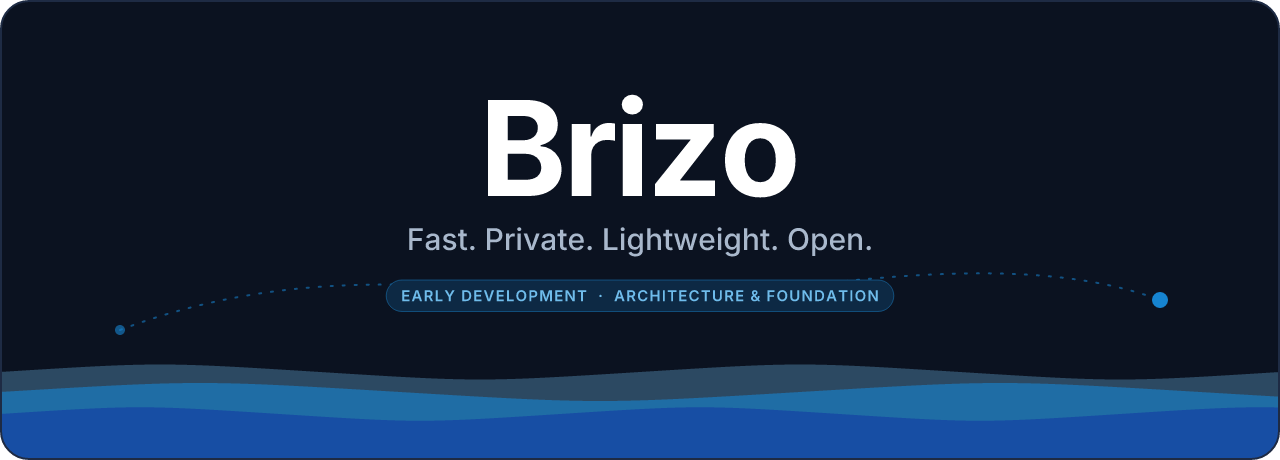
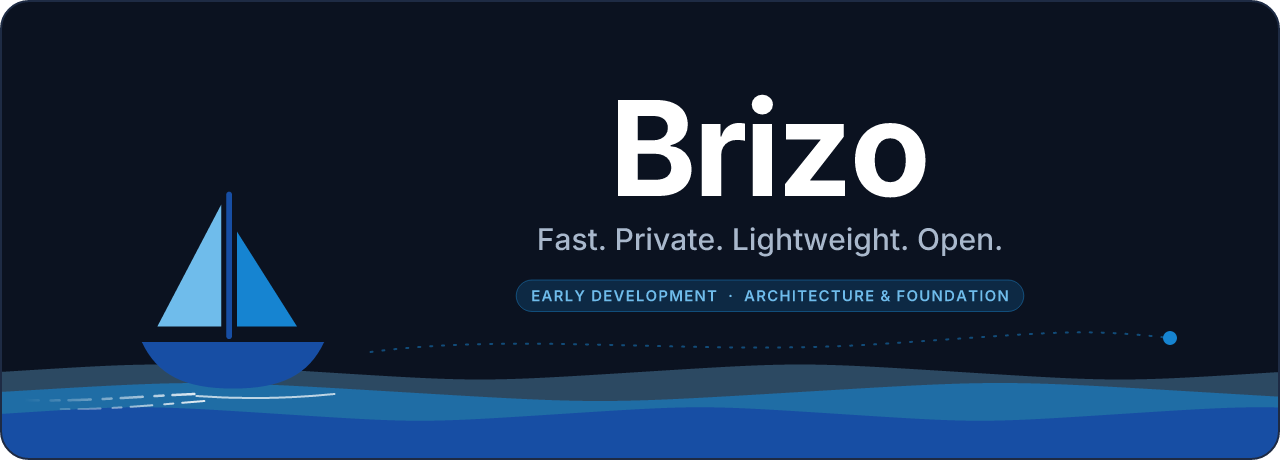
Publish animated sailing hero with a temporary, distinct sailboat motif
The owner-approved V2 hero layout and animation (boat left, type moved right,
surge/bob/rock, parallax waves, wake, wind) now render publicly. A bounded
provenance check did not establish rights to the provisional logo, so the
boat is an independently constructed generic sloop (visible mast, two
straight-edged triangular sails, crescent hull): README artwork only, not a
logo. The exact-logo V2 stays private. Records the provenance findings
(no metadata; reported BRIZO Class 9 registration by Delta Faucet Co.)
in BRAND_PROVENANCE, D-013 and D-014.

Claude-Session: https://claude.ai/code/session_01EcwpM4mqBSRsgukaGKjCz5

diff --git a/docs/BRAND_PROVENANCE.md b/docs/BRAND_PROVENANCE.md
@@ -10,6 +10,7 @@ Last reviewed: 2026-11-24 (Task 001). **Nothing in this document is legal advice
 | Logo reference image (owner-supplied, "Balanced" variation) | ⚠ **Provenance and copyright status unknown** |
 | Vector logo candidate (hand-built SVG following the reference) | ⚠ **Provisional.** Inherits the reference's unresolved status |
 | Animated sailing-logo hero (`branding-private/hero-v2/`) | ⚠ **Private.** Contains the provisional mark; shared with the owner only |
+| Temporary README sailboat motif (`MOTIF_BOAT` in `build-readme-assets.mjs`) | ✅ Original, generic sloop (mast, two straight triangular sails, crescent hull); README artwork only, **not a logo** |
 | README artwork (`assets/readme/`) | ✅ Original, abstract (waves, wind, typography), generated by `scripts/brand/build-readme-assets.mjs` |
 | Font: Inter | ✅ SIL Open Font License 1.1 (`@fontsource/inter`) |
 | Tooling: `@resvg/resvg-js` (MPL-2.0), `opentype.js` (MIT) | ✅ Build-time only, not redistributed in assets |
@@ -56,3 +57,24 @@ someone else's protected work, the candidate may be too.
 
 Once resolved, record the outcome in [DECISIONS.md](DECISIONS.md), then (with
 owner approval) logo assets may be committed and used in the README.
+
+## Bounded provenance investigation (Task 003, 2026-11-25)
+
+Performed once, by design. Findings:
+
+| Check | Result |
+| --- | --- |
+| Reference file metadata (EXIF, XMP, C2PA/JUMBF) | **None present.** The WebP was re-encoded (VP8X + ICC only), which strips metadata |
+| ICC profile | `sRGB`, copyright "Google Inc. 2016" (Skia's compact profile). **Weak signal only:** the file passed through a Google/Skia encoder (e.g. a Google AI image tool, Chrome or Android). It does not establish authorship or licence |
+| Owner-supplied rights document | None on record |
+| Reverse-image / visually-similar mark search | **Not possible** from the research sandbox (no image-search access). A three-shape blue sailboat is a common motif; failure to find a match would not prove originality anyway |
+| "BRIZO" word mark | Third-party trademark aggregators report a **live BRIZO registration by Delta Faucet Company covering Classes 3, 9 and 11** (serial 98131038, reg. 7779957), in addition to its long-standing Class 11 faucet mark, and BRIZO filings by others including "Brizo Data, Inc.". **Not yet confirmed in USPTO TSDR** (USPTO sites unreachable from the sandbox). Class 9 covers software, so this is a **material naming risk** that needs owner and legal review before any public launch |
+
+Sources: [Markinton 98131038](https://markinton.com/trademark/brizo-98131038), [trademarkregistration.app 98131038](https://trademarkregistration.app/Trademark/Details/98131038), [Justia: Brizo Data, Inc.](https://trademarks.justia.com/owners/brizo-data-inc-4150691), [TrademarkElite 78794479](https://www.trademarkelite.com/trademark/trademark-detail/78794479/BRIZO).
+
+**Conclusion:** usage rights for the provisional logo are **not established**.
+The approved animated V2 hero (exact logo) stays private. The public README uses
+a distinct temporary motif. Owner actions: (1) record where the reference came
+from and under what terms, or commission an original mark in the same direction
+with documented authorship; (2) verify serial 98131038 in USPTO TSDR and get
+legal advice on the name before any public release.

diff --git a/README.md b/README.md
@@ -4,7 +4,7 @@
   <source media="(prefers-reduced-motion: reduce) and (prefers-color-scheme: dark)" srcset="assets/readme/static/hero-dark.png">
   <source media="(prefers-reduced-motion: reduce)" srcset="assets/readme/static/hero-light.png">
   <source media="(prefers-color-scheme: dark)" srcset="assets/readme/hero-dark.svg">
-  <img alt="Brizo — Fast. Private. Lightweight. Open. Early development: architecture and foundation." src="assets/readme/hero-light.svg" width="100%">
+  <img alt="Brizo — Fast. Private. Lightweight. Open. An illustrative sailboat sails across animated waves. Early development: architecture and foundation." src="assets/readme/hero-light.svg" width="100%">
 </picture>
 
 <sub><a href="https://github.com/settings/appearance" title="Opens GitHub's appearance settings (sign-in required). README content cannot change your theme."><img src="assets/readme/icon-sun.svg" width="12" height="12" alt="Light"><img src="assets/readme/icon-moon.svg" width="12" height="12" alt="Dark"></a> Artwork adapts to light and dark mode automatically · <a href="https://github.com/settings/appearance">GitHub appearance settings</a></sub>
@@ -223,8 +223,9 @@ no licence is granted for the contents of this repository. See
 
 “Brizo” is a working name and has **not** received trademark clearance. The
 logo shown to the owner for review is a provisional candidate whose provenance
-is unresolved, so it is intentionally **not** published here. README artwork
-uses original, abstract wave and wind motifs. Details:
+is unresolved, so it is intentionally **not** published here. The sailboat in
+the animated banner is a **temporary illustration, not the Brizo logo**; all
+README artwork is original and source-independent. Details:
 [docs/BRAND_PROVENANCE.md](docs/BRAND_PROVENANCE.md).
 
 <div align="center">

diff --git a/docs/DECISIONS.md b/docs/DECISIONS.md
@@ -69,3 +69,16 @@ READMEs cannot run JavaScript or change the viewer's GitHub theme. The hero has
 a compact sun/moon note with an accurately labelled link to
 `https://github.com/settings/appearance`. A real Sun/Moon toggle is specified
 for the future website (`docs/website/`), but is not deployed.
+
+## D-013 · 2026-11-25 · Accepted: Public hero uses a temporary, distinct sailboat motif
+The owner approved hero V2's composition and animation. A bounded provenance check
+(BRAND_PROVENANCE) did not establish usage rights for the provisional logo. The
+public README hero therefore keeps V2's layout, motion, waves, wake, wordmark
+position and colours, but draws an independently constructed generic sloop
+(`MOTIF_BOAT`). It is README artwork only, not an application logo. The
+exact-logo V2 stays private (`branding-private/hero-v2/`). Switching later means
+passing the private boat renderer to `hero()`, after rights are confirmed.
+
+## D-014 · 2026-11-25 · Risk recorded: "BRIZO" Class 9 registration reported
+Aggregators report Delta Faucet Company's BRIZO registration covering Class 9.
+To be verified in USPTO TSDR; the project name needs owner and legal review before public launch.
